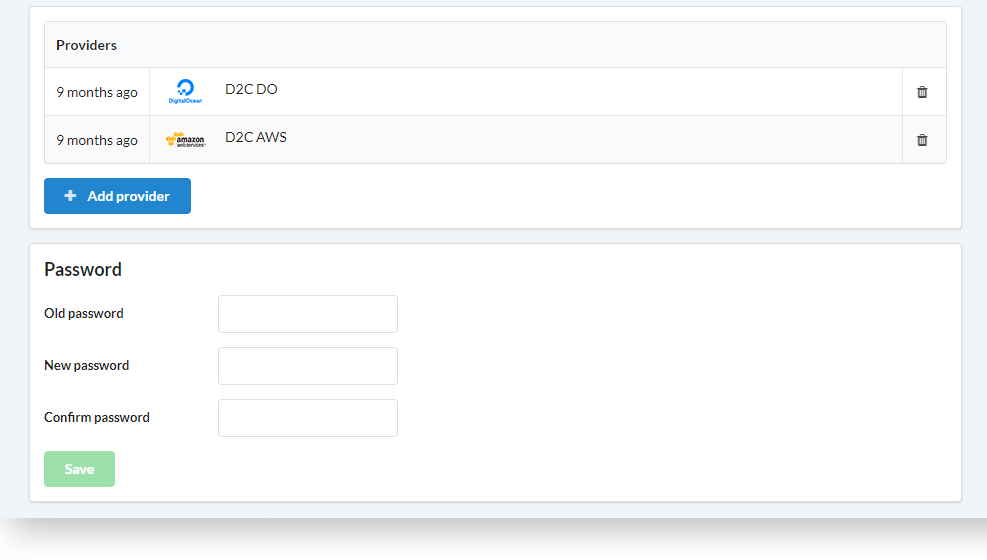
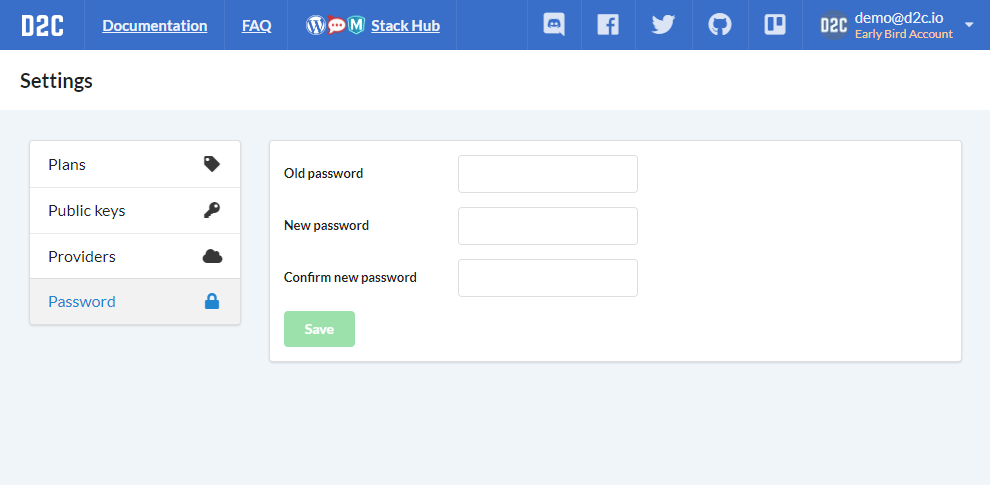
edited plan and settings pages

diff --git a/docs/account/plan.md b/docs/account/plan.md
@@ -2,28 +2,45 @@
 
 D2C does not provide its computing resources – it automates the provisioning process at cloud providers. Be aware that cloud provider will charge you for resource usage based on your payment plan.
 
-## Compare and understanding plans
+## Plans comparison
 
-Free                                          | Pro                                                      | Enterprise
-:-------------------------------------------- | :------------------------------------------------------- | :----------------------------------
-Connect 1 own host                            | Connect up to 100 hosts                                  | Pro features
-Low priority in task queue                    | Multi-Cloud and Hybrid deployment                        | Private Cloud
-1-hour [metric](/platform/metrics/) retention | High priority in task queue                              | Role-based Access control
-300MB rotated [logs](/platform/logs/)         | [Database Replication](/platform/scaling/)               | LDAP/SAML/AD
-                                              | [Vertical and horizontal Scaling](/platform/scaling/)    | Unlimited logs
-                                              | [Load Balancing](/platform/balancing/)                   |
-                                              | [Container migration](/platform/migration/)              |
-                                              | Webhoooks                                                |
-                                              | 1-month [metric](/platform/metrics/) retention           |
-                                              | 300MB rotated [logs](/platform/logs/)                    |
-**0 $**                                       | **$16/mo** billed annually<br>**$19/mo** billed monthly  | [Contact us](mailto:support@d2c.io)
+Plan                                                  | Free          | Early bird*   | Personal | Team
+:---------------------------------------------------- |-------------- | ---------      | -----    | ----
+Connected hosts                                       | 1             | 100            | 30       |100  
+Priority of processes                                 | Low           | High           | High     | Highest
+[Metrics](/platform/metrics/) retention period        | 1-hour        | 1-month        | 1-week   | 1-month
+[Rotated logs](/platform/logs/)                       | 300MB         | 300MB          | 1 GB     | 1 GB
+Multicloud deployment                                 | ❌             | ✅              | ✅        | ✅
+[Database Replication](/platform/scaling/)            | ❌             | ✅              | ✅        | ✅
+[Vertical and horizontal Scaling](/platform/scaling/) | ❌             | ✅              | ✅        | ✅
+[Load Balancing](/platform/balancing/)                | ❌             | ✅              | ✅        | ✅
+[Container migration](/platform/migration/)           | ❌             | ✅              | ✅        | ✅
+[Webhoooks](/platform/webhooks/)                      | ❌             | ✅              | ✅        | ✅
+Role-based Access control                             | ❌             | ❌              | ❌        | ✅
+**Extra user**                                        | Not available | Not available | Not available | **$15.83/mo** billed annually<br>**$19/mo** billed monthly
+**Extra logs**                                        | Not available | **$3 per GB monthly** | **$3 per GB monthly** | **$3 per GB monthly**
+**Price**                                             | **$0**        | **$16/mo** billed annually<br>**$19/mo** billed monthly | **$15.83/mo** billed annually<br>**$19/mo** billed monthly |  **$47.5/mo** billed annually<br>**$57/mo** billed monthly
+
+\* available until 15th of December 2018
+
+Services  | Info   |  Price
+--|---|--
+Basic technical support    | Email&Tickets. Response time: 24 hours                    | **$150/mo**. [Subscribe](https://pay.paddle.com/checkout/539534)
+Premium technical support  | Private chat channel. Response time: 12 hours             | **$350/mo**. [Subscribe](https://pay.paddle.com/checkout/539535)
+Migration your WordPress to D2C   | [Get more information](https://d2c.io/services/your-wordpress-site-migration-to-our-platform)    | **$50** |
+Migration your application to D2C  |                                         | [**Contact us**](mailto:support@d2c.io?subject=Migration your application to D2C)
+Website optimizing         | Based on WordPress                                        | **$300**. [**Contact us**](mailto:support@d2c.io?subject=WordPress optimizing)
+Custom optimizing          | Databases, Webservers, Load balancers, etc.               | [**Contact us**](mailto:support@d2c.io?subject=Custom optimizing)
+Infrastructure design      | Hardware and software design for your project from scratch | [**Contact us**](mailto:support@d2c.io?subject=Infrastructure design)
+Infrastructure support     | 24/7, hardware and software                       | Depending on amount of services/hosts. [**Contact us**](mailto:support@d2c.io?subject=Infrastructure support)
+CI/CD setup               | Based on GitLab and D2C                                           | [**Contact us**](mailto:support@d2c.io?subject=CI/CD setup)
+
 
 
 ### Notes
 
 1. Priority in task queue means how fast task (create services, update services, etc.) will be processed. If you would like to manage priority yourself, you need the Enterprise plan.
-2. **Private cloud** means the ability to run D2C platform in your environment.
-3. You can not change Pro plan to Free yourself. [Contact us](mailto:support@d2c.io) if you want to do it. The account should have not more than one cloud host.
-4. Customers from Russia can make a payment using bank transfer ([Send](mailto:support@d2c.io) your company details and subscription duration for making the invoice).
-5. We never delete any data from your hosts after cancelling a subscription. You can continue to manage them manually.
-6. You can ask to delete any data about your D2C account.
+2. Multicloud deployment - deploying applications to different cloud providers or own hosts.
+3. You can change paid plan to Free after your subscription is expired and automatically payment is canceled. The account should have not more than one cloud host.
+4. We never delete any data from your hosts after cancelling a subscription. You can continue to manage them manually.
+5. You can ask to delete any data about your D2C account.

diff --git a/docs/account/settings.md b/docs/account/settings.md
@@ -2,12 +2,19 @@
 
 To create D2C account follow this [link](https://panel.d2c.io/account/signup). You can use any of social profiles (Google, Facebook, GitHub, BitBucket) or your email and password.
 
-In account settings you can:
+In [account settings](https://panel.d2c.io/settings) you can:
 
-- change password
 - upgrade [plan](/account/plan/)
-- add or delete accounts of [cloud providers](/getting-started/hosts/#supported-cloud-providers)
+- add or delete [public keys](/platform/ssh-sftp)
+- add or delete accounts of [hosting](/getting-started/cloud-providers) and [storage](/getting-started/storage-providers) providers
+- change password
 
-![Settings](../img/settings.png)
+### Screenshots
 
-![Settings - change password](../img/settings_password.png)
+![Settings - plans](../img/settings_plan.png)
+
+![Settings - public keys](../img/settings_keys.png)
+
+![Settings - providers](../img/settings_providers.png)
+
+![Settings - password](../img/settings_password.png)
